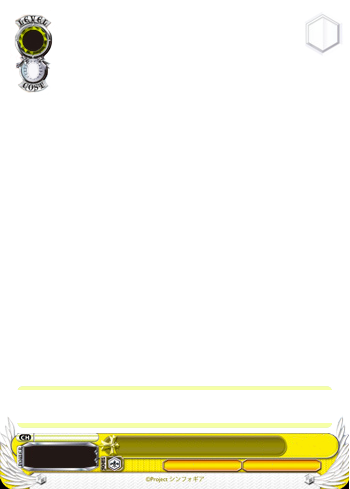
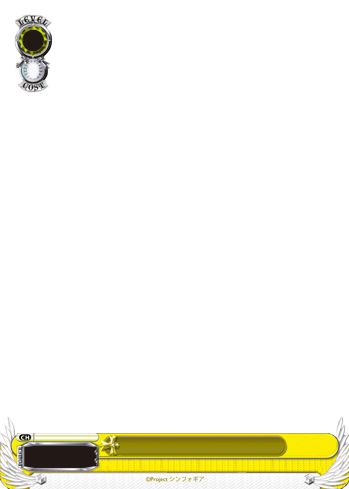
Commit at 2016/06/02 22:31

diff --git a/htdocs/css/main.css b/htdocs/css/main.css
@@ -14,6 +14,14 @@
 	font-family: 中宋;
 	src: url('/fonts/HWZS.ttf');
 }
+@font-face{
+	font-family: 粗宋;
+	src: url('/fonts/FZCSJW.ttf');
+}
+@font-face{
+	font-family: 准圆;
+	src: url('/fonts/FZY3JW.ttf');
+}
 body{
 	margin:0;
 }
@@ -108,10 +116,13 @@ body{
 .card{
 	height:489px;
 	width:349px;
-	border-radius:10px;
+	border-radius:15px;
 	position:relative;
 	float:left;
 	margin:10px;
+}
+.cardTemplate{
+	border-radius:15px;
 }
 .cardSmall{
 	transform:scale(0.5);
@@ -130,9 +141,10 @@ body{
 }
 .cardName{
 	position:absolute;
-	top:89%;
+	top:89.3%;
 	left:35%;
-	font-family: 中宋;
+	font-family: 粗宋;
+	font-weight:bold;
 	text-align:center;
 	width:155px;
 	color:#FFF;
@@ -165,4 +177,63 @@ body{
 	width:65px;
 	color:#FFF;
 	text-shadow: 1px 0 0 #000, -1px 0 0 #000, 0 1px 0 #000, 0 -1px 0 #000;
+}
+.cardNumber2{
+	position:absolute;
+	top:93.5%;
+	left:29%;
+}
+.cardTag1{
+	height:15px;
+	width:81px;
+	text-align:center;
+	position:absolute;
+	top:93.7%;
+	left:69%;
+	background-image:url('/cards/templates/tag.png');
+	color:#000;
+	font-family:准圆;
+	font-size:12px;
+	font-weight:bold;
+}
+.cardTag2{
+	height:15px;
+	width:81px;
+	text-align:center;
+	position:absolute;
+	top:93.7%;
+	left:46.5%;
+	background-image:url('/cards/templates/tag.png');
+	color:#000;
+	font-family:准圆;
+	font-size:12px;
+	font-weight:bold;
+}
+.cardTextArea{
+	position:absolute;
+	bottom:12%;
+	left:5%;
+}
+.cardTextArea > img{
+	display:block;
+}
+.cardDesc{
+	background-image:url('/cards/templates/description.png');
+	background-repeat:repeat-y;
+	font-family:黑体;
+	font-size:15px;
+	color:#000;
+	padding-left:5%;
+	padding-right:5%;
+	text-align:center;
+	margin-bottom:3%;
+}
+.cardText{
+	background-image:url('/cards/templates/text.png');
+	background-repeat:repeat-y;
+	font-family:准圆;
+	font-size:12px;
+	color:#000;
+	padding-left:5%;
+	padding-right:5%;
 }

diff --git a/includes/functions/card.php b/includes/functions/card.php
@@ -7,16 +7,18 @@
 	function displayCard($id, $card){
 		if($card[$id]->{'type'}==1){
 			echo "<div style=\"background-image:url(/cards/background/".$id.".jpg);\" class=\"card\">";
-			echo "<img src=\"/cards/templates/".$card[$id]->{'color'}.".png\"/>";
+			echo "<img src=\"/cards/templates/".$card[$id]->{'color'}.".png\" class=\"cardTemplate\"/>";
 			echo "<span class=\"cardCardNo\">".$card[$id]->{'cardno'}." ".$card[$id]->{'rarity'}."</span>";
 			echo "<span class=\"cardName\">".$card[$id]->{'name'}."</span>";
 			echo "<span class=\"cardLevel\">".$card[$id]->{'level'}."</span>";
 			echo "<span class=\"cardCost\">".$card[$id]->{'cost'}."</span>";
 			echo "<span class=\"cardNumber1\">".$card[$id]->{'number1'}."</span>";
-			//number2
-			//tag要加背景
-			//text
-			//description
+			echo "<span class=\"cardNumber2\">";
+			for($i=0;$i<$card[$id]->{'number2'};$i++) echo "<img src=\"/cards/templates/number2.png\"/>";
+			echo "</span>";
+			echo "<span class=\"cardTag1\">".$card[$id]->{'tag1'}."</span>";
+			if($card[$id]->{'tag2'}!=NULL) echo "<span class=\"cardTag2\">".$card[$id]->{'tag2'}."</span>";
+			echo "<span class=\"cardTextArea\"><div class=\"cardDesc\">".$card[$id]->{'description'}."</div><img src=\"/cards/templates/".$card[$id]->{'color'}."-texttop.png\"/><div class=\"cardText\">".$card[$id]->{'text'}."</div><img src=\"/cards/templates/".$card[$id]->{'color'}."-textbottom.png\"/></span>";
 			echo "</div>";
 		}
 	}

diff --git a/includes/views/header.php b/includes/views/header.php
@@ -4,7 +4,7 @@
 		<ul class="headerUL">
 <?php if(isset($_SESSION['logined'])) echo"			<li class=\"headerLI\"><a href=\"/card\" class=\"headerA\" id=\"getFish\">仓库</a></li>"; ?>
 <?php if(isset($_SESSION['logined'])) echo"			<li class=\"headerLI\"><a href=\"/gacha\" class=\"headerA\" id=\"fireFish\">扭蛋</a></li>"; ?>
-<?php if(isset($_SESSION['logined'])) echo"			<li class=\"headerLI\"><a href=\"/wiki\" class=\"headerA\">Wiki</a></li>"; ?>
+<?php //if(isset($_SESSION['logined'])) echo"			<li class=\"headerLI\"><a href=\"/wiki\" class=\"headerA\">Wiki</a></li>"; ?>
 		</ul>
 	</span>
 	<span class="headerRight">
